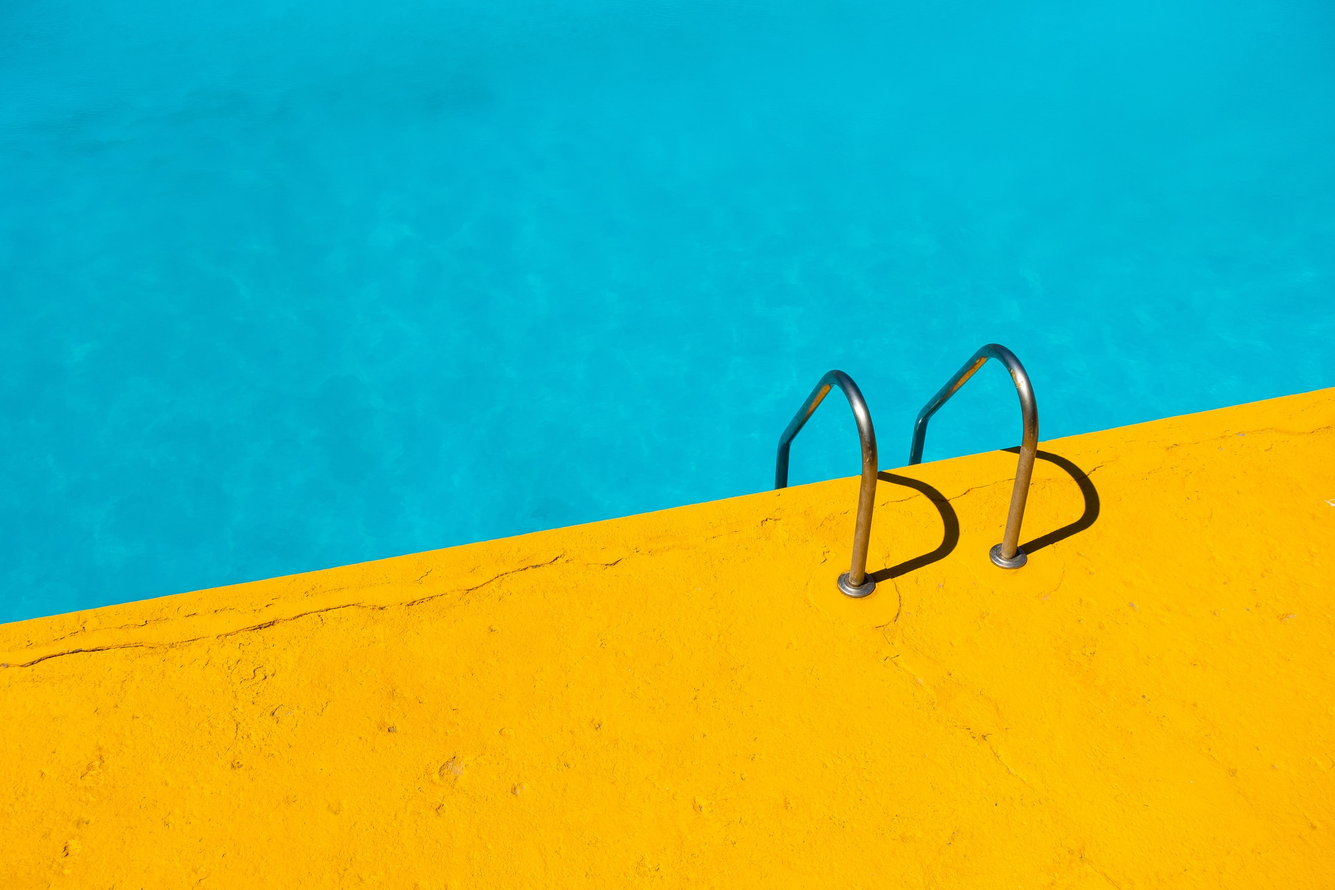
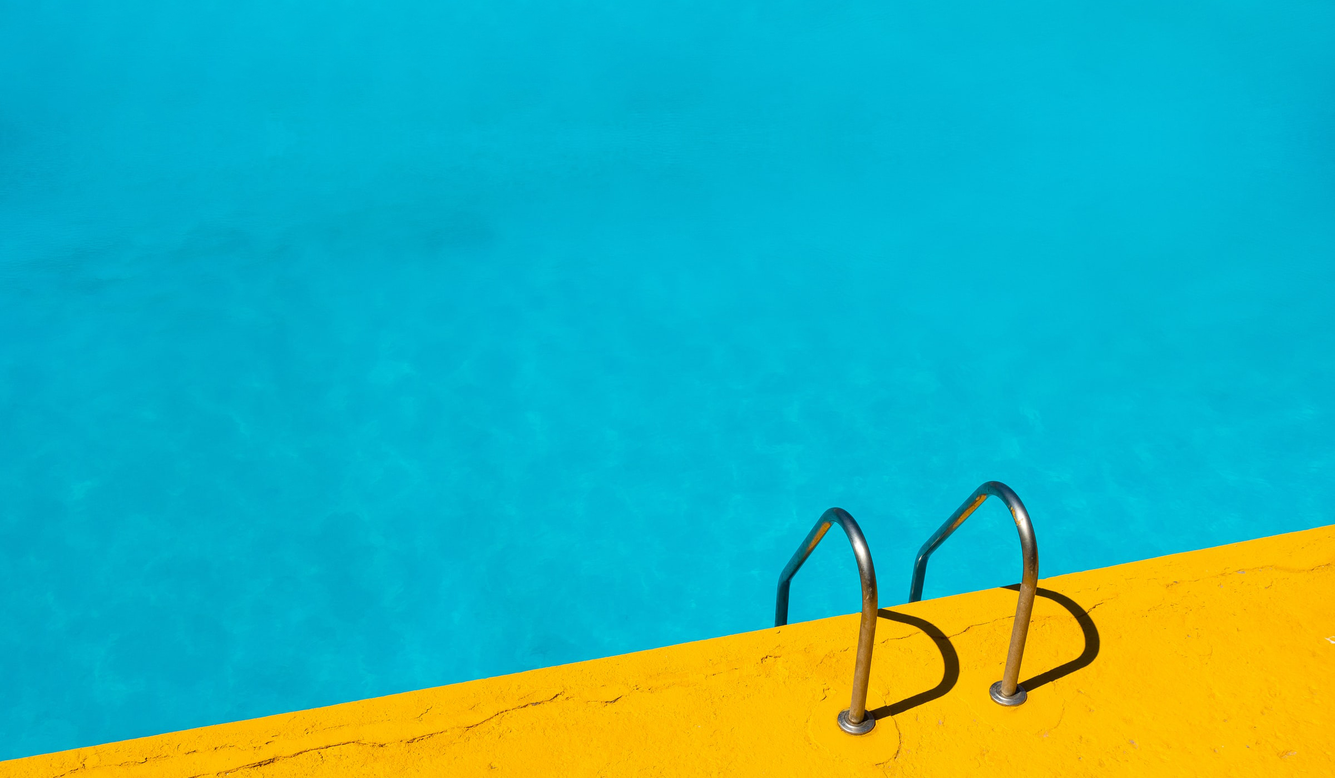
tataki
bg fix...

diff --git a/css/style.css b/css/style.css
@@ -9,7 +9,7 @@ html {
 
 
 body {
-	background: #01b9d5 url('../images/bg.jpg') no-repeat fixed left center;
+	background: #01b9d5 url('../images/bg.jpg') no-repeat fixed left top;
 	background-size: cover;
 	color: #fff;
 	text-align: center;
